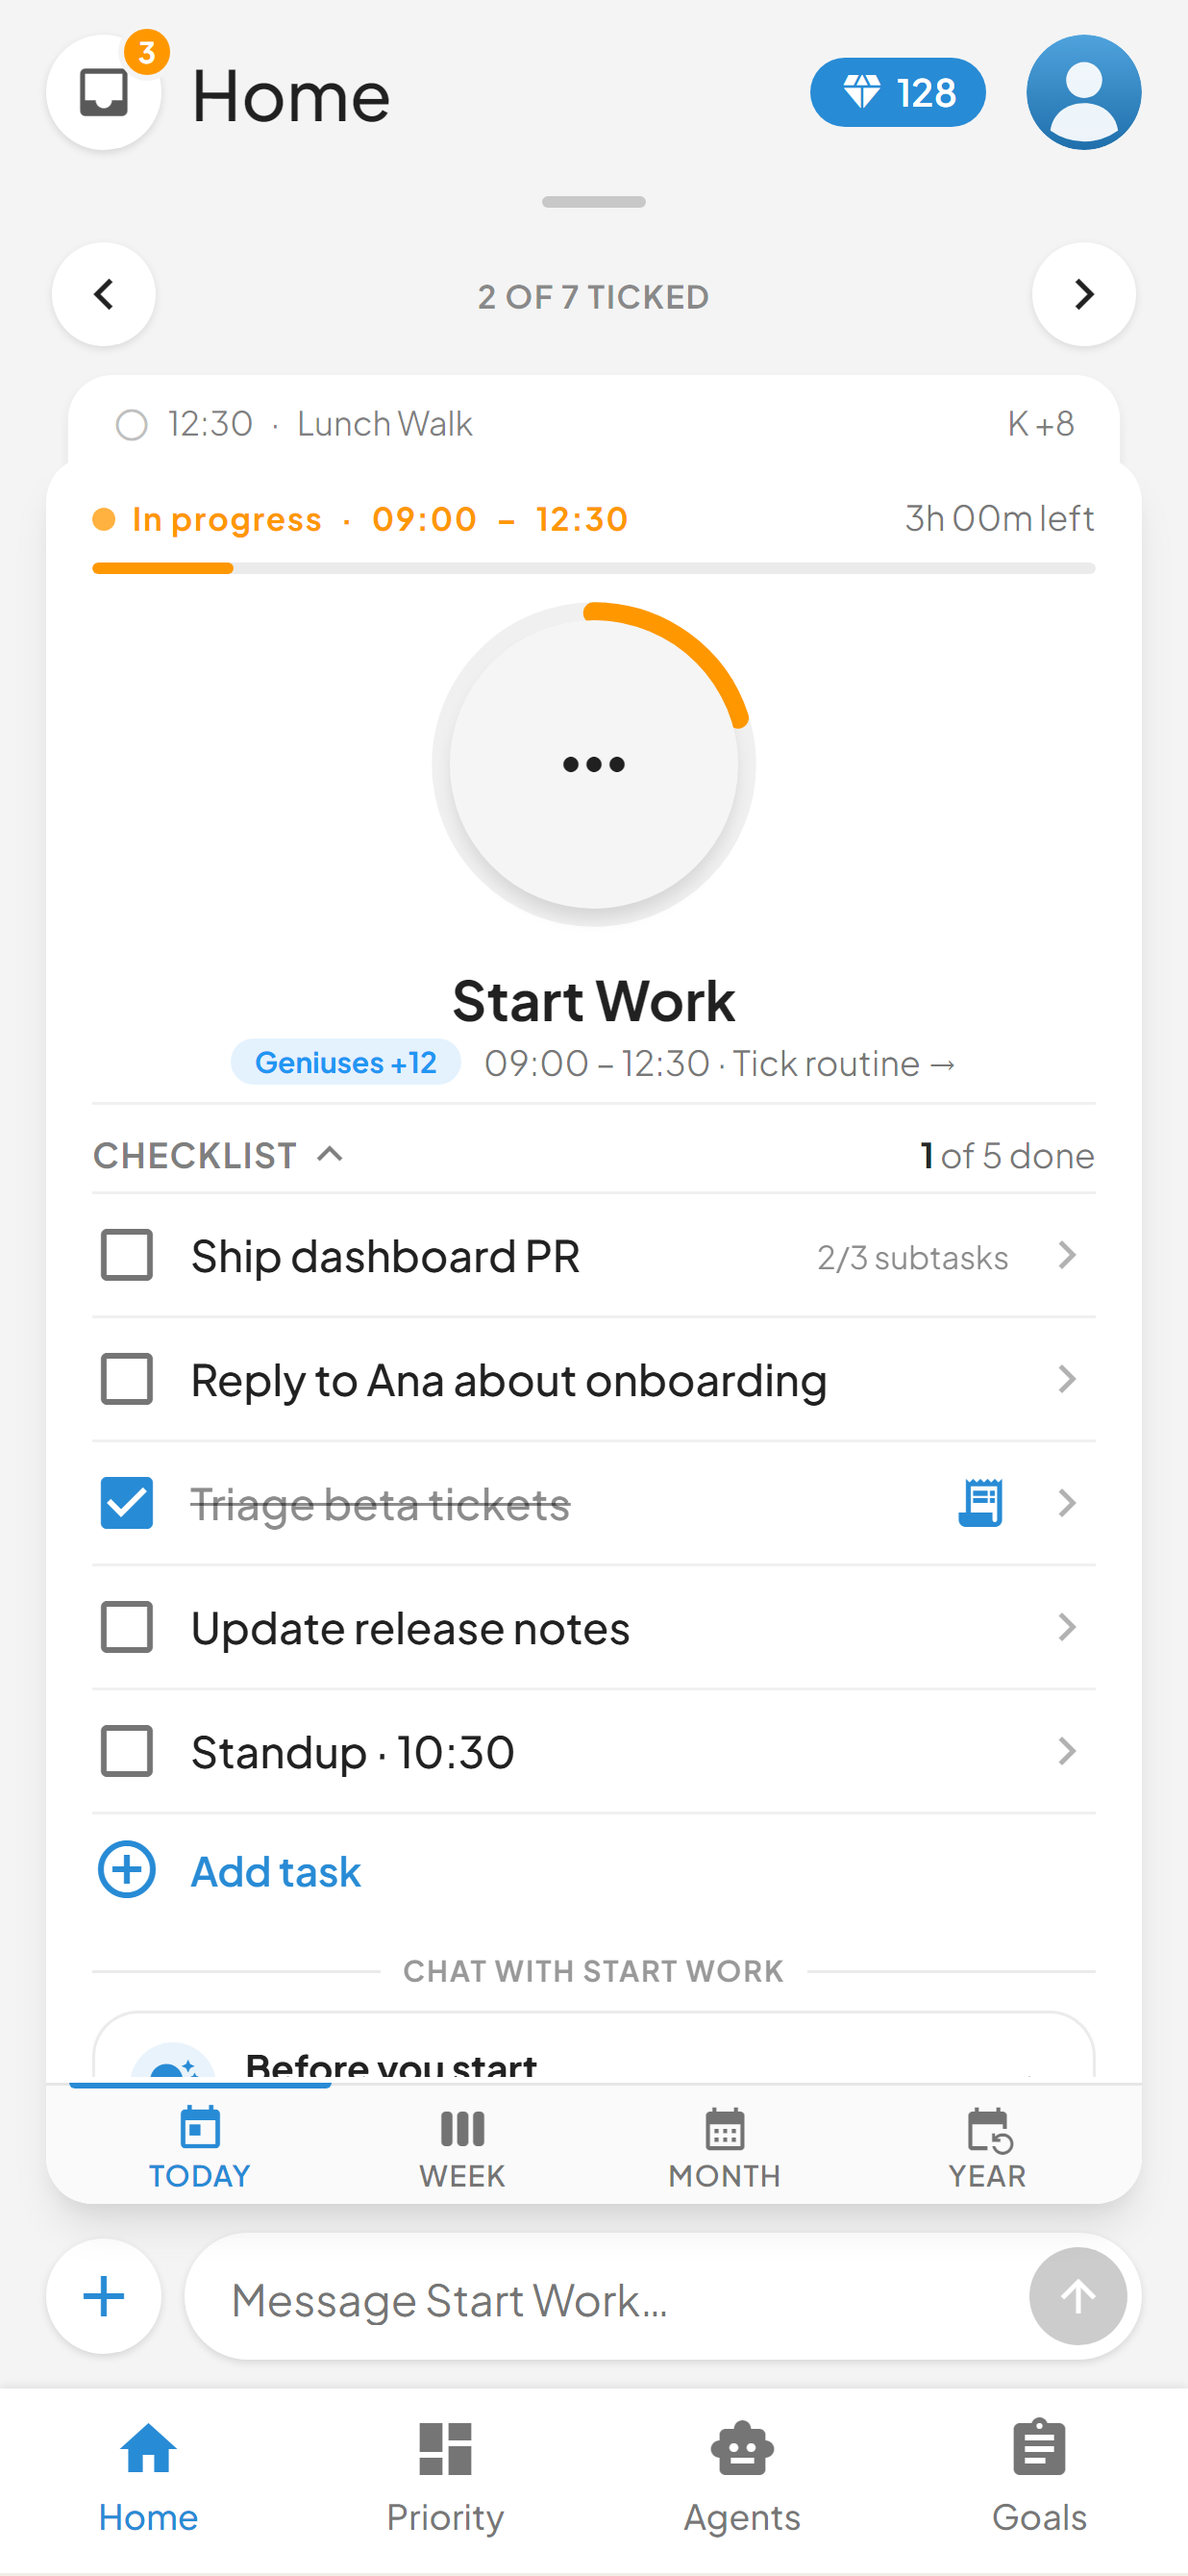
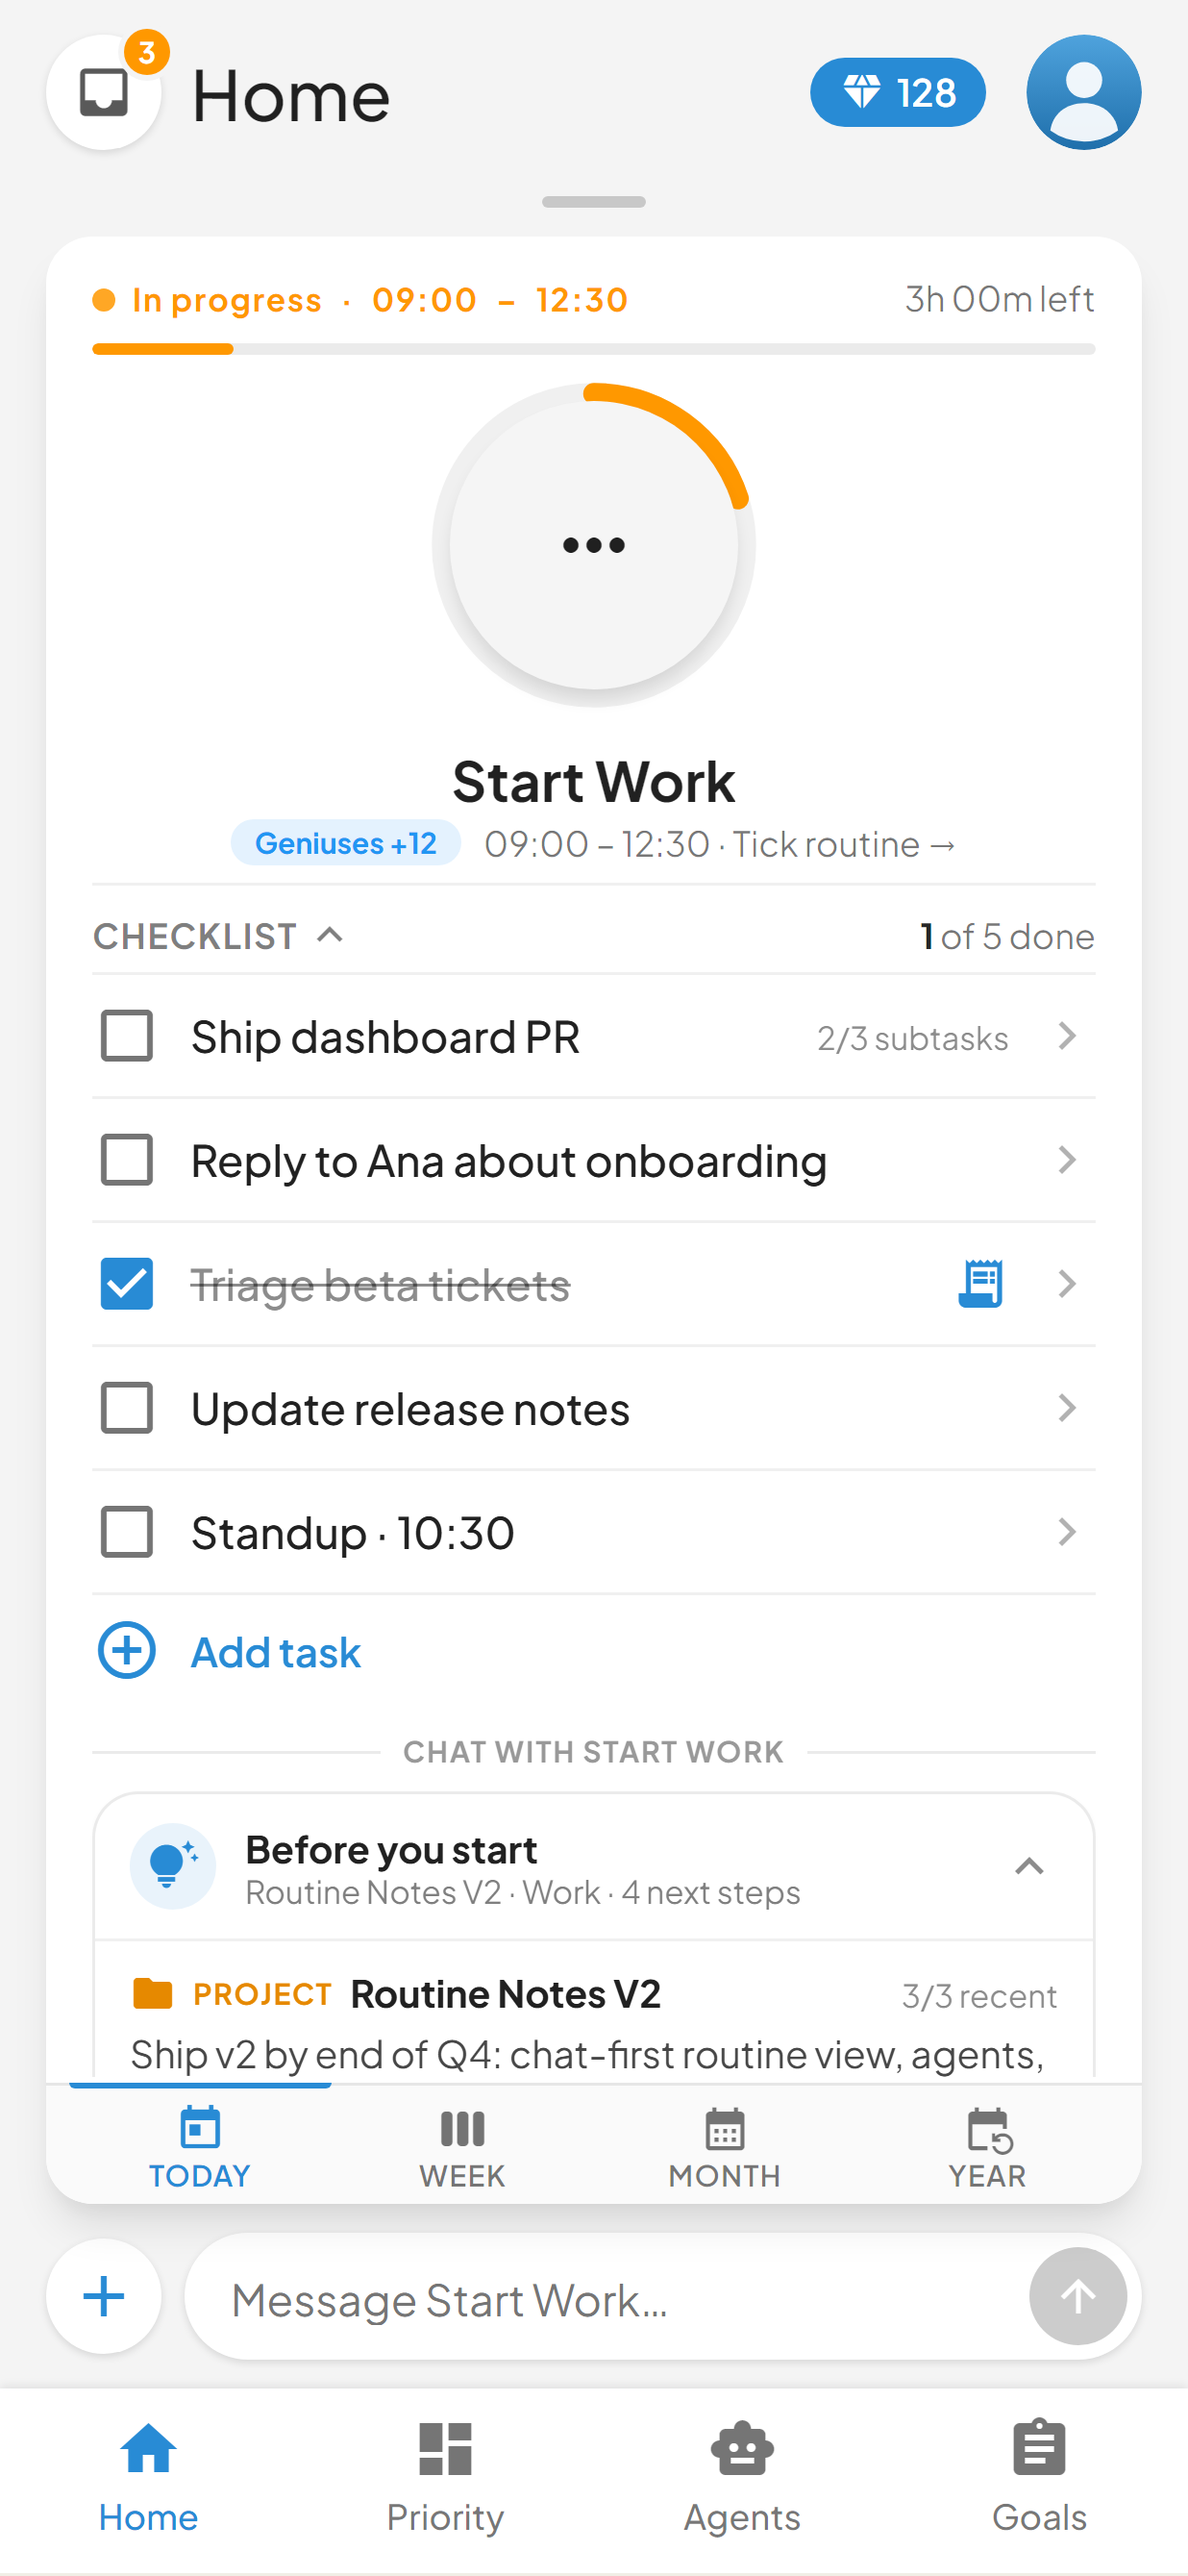
feat(design): drop the peek deck, and re-cut all 24 slides from it
`4ed0905` removed the Home deck's stacked peek cards from the app, along with
the "N OF M TICKED" header and the < > buttons, moving "Back to now" into the
focus card's status row. `packages/design` still drew all of it, so the slides
cut from the prototype advertised a layout the app no longer ships - the exact
drift the pipeline's standing caveat warns about.

The prototype now matches: the header row and the `sc-for deckNext` peek block
are gone, the 30px that made room for them with it, and "Back to now" sits beside
the time left in the card's status row, which is where the large shells already
had it. The dead `deckNext` binding is removed; `deckDoneCount` stays, because
the tablet and desktop rails still show their own "N of 7 ticked".

All 24 slides re-captured, re-composed and re-rasterised. verify-listing: 24
checks, 0 fail.

Also adds a one-drop slot for a real avatar. The prototypes render the neutral
`assets/avatar.svg` because the mocks used to load a Google-hosted photo of an
identifiable stranger, which is not publishable as marketing. Dropping a licensed
portrait at `packages/design/assets/avatar-demo.png` now makes the capture serve
it in place of the SVG - no design edits, and every slide picks it up on the next
run.

Claude-Session: https://claude.ai/code/session_01PbWEQqGVegm4LQ7KC1a1VF

diff --git a/packages/design/Routine Notes Final.dc.html b/packages/design/Routine Notes Final.dc.html
@@ -81,19 +81,11 @@ a{color:#288bd5}a:hover{color:#1f6fab}
     <div style="width:36px;height:4px;border-radius:2px;background:rgba(0,0,0,.18)"></div>
   </div>
   <div style="flex:1;overflow:hidden;display:flex;flex-direction:column;padding:8px 16px 64px;min-height:0">
-    <div style="display:flex;align-items:center;justify-content:space-between;padding:2px 2px 8px">
-      <div onClick="{{ goPrev }}" style="width:36px;height:36px;border-radius:50%;background:#fff;display:flex;align-items:center;justify-content:center;box-shadow:0 1px 3px rgba(0,0,0,.1);cursor:pointer;opacity:{{ hasPrevOpacity }}"><span class="mi" style="font-size:22px">chevron_left</span></div>
-      <div style="text-align:center"><div style="font-size:11px;font-weight:700;letter-spacing:.5px;color:rgba(0,0,0,.45)">{{ deckDoneCount }} OF 7 TICKED</div><sc-if value="{{ focusNotCur }}" hint-placeholder-val="{{ false }}"><div onClick="{{ backToNow }}" style="font-size:12px;font-weight:600;color:#FF9800;cursor:pointer;margin-top:2px">Back to now</div></sc-if></div>
-      <div onClick="{{ goNext }}" style="width:36px;height:36px;border-radius:50%;background:#fff;display:flex;align-items:center;justify-content:center;box-shadow:0 1px 3px rgba(0,0,0,.1);cursor:pointer;opacity:{{ hasNextOpacity }}"><span class="mi" style="font-size:22px">chevron_right</span></div>
-    </div>
-    <div style="position:relative;flex:1;min-height:0;margin-top:30px">
-      <sc-for list="{{ deckNext }}" as="n" hint-placeholder-count="2">
-        <div onClick="{{ n.onFocus }}" style="position:absolute;left:0;right:0;top:0;height:120px;border-radius:16px;background:#fff;box-shadow:0 2px 4px rgba(0,0,0,.06);transform:translateY(-{{ n.top }}) scale({{ n.scale }});transform-origin:top center;z-index:{{ n.z }};cursor:pointer;display:flex;align-items:flex-start;justify-content:space-between;padding:10px 16px;font-size:12px;color:rgba(0,0,0,.5)"><span style="display:flex;align-items:center;gap:6px"><span class="mi" style="font-size:14px;color:{{ n.agentDotColor }}">{{ n.agentIcon }}</span>{{ n.time }} · {{ n.name }}</span><span>{{ n.stim }} +{{ n.pts }}</span></div>
-      </sc-for>
+    <div style="position:relative;flex:1;min-height:0">
       <div style="position:relative;z-index:5;background:#fff;border-radius:16px;box-shadow:0 10px 15px -3px rgba(0,0,0,.1),0 4px 6px -2px rgba(0,0,0,.05);padding:14px 16px 16px;height:100%;box-sizing:border-box;display:flex;flex-direction:column;overflow:hidden">
         <div style="display:flex;align-items:center;justify-content:space-between;margin-bottom:8px;gap:8px">
           <div style="display:flex;align-items:center;gap:6px;font-size:11px;font-weight:700;letter-spacing:.6px;color:{{ focusStatusColor }};white-space:nowrap"><div style="width:8px;height:8px;border-radius:50%;background:{{ focusStatusColor }};animation:rn-pulse 1.4s ease-in-out infinite"></div>{{ focusStatus }} · {{ focus.time }} – {{ focusEnd }}</div>
-          <div style="font-size:12px;color:rgba(0,0,0,.54);white-space:nowrap">{{ focusLeft }}</div>
+          <div style="display:flex;align-items:center;gap:8px;white-space:nowrap"><sc-if value="{{ focusNotCur }}" hint-placeholder-val="{{ false }}"><span onClick="{{ backToNow }}" style="font-size:12px;font-weight:600;color:#FF9800;cursor:pointer">Back to now</span></sc-if><span style="font-size:12px;color:rgba(0,0,0,.54)">{{ focusLeft }}</span></div>
         </div>
         <div style="height:4px;border-radius:2px;background:rgba(0,0,0,.08);overflow:hidden"><div style="height:100%;width:{{ focusElapsedPct }}%;background:{{ focusStatusColor }};border-radius:2px"></div></div>
         <div style="display:flex;flex-direction:column;align-items:center;padding:6px 0 2px">
@@ -1898,7 +1890,6 @@ class Component extends DCLogic {
       focusTickBorder: focus.past && !focus.ticked ? '1px solid #288bd5' : '1px solid transparent',
       focusOthers: rows.filter(r => r.id !== focusId).map(r => ({ ...r, bg: r.isCur ? 'rgba(255,152,0,.12)' : '#f5f5f5', fg: r.past ? 'rgba(0,0,0,.4)' : 'rgba(0,0,0,.8)', onFocus: () => this.setState({ focusId: r.id }), stateIcon: r.ticked ? 'check_circle' : (r.isCur ? 'radio_button_checked' : (r.past ? 'diamond' : 'radio_button_unchecked')), stateColor: r.ticked ? '#4CAF50' : (r.isCur ? '#FF9800' : 'rgba(0,0,0,.3)') })),
       rail: rows.map(r => { const f = r.id === focusId; return { ...r, isFocus: f, notFocus: !f, dotBg: r.ticked ? '#4CAF50' : (r.isCur ? '#FF9800' : (r.past ? '#fff' : '#e0e0e0')), dotBorder: r.past && !r.ticked ? '2px solid #288bd5' : '2px solid transparent', lineBg: r.past || r.isCur ? '#4CAF50' : 'rgba(0,0,0,.1)', onFocus: () => this.setState({ focusId: r.id }), lineFg: r.past ? 'rgba(0,0,0,.4)' : 'rgba(0,0,0,.8)' }; }),
-      deckNext: rows.slice(fi + 1, fi + 3).map((r, i) => ({ ...r, agentIcon: r.id === 'sw' && s.agentAssigned ? 'smart_toy' : 'radio_button_unchecked', agentDotColor: r.id === 'sw' && s.agentAssigned ? '#1976d2' : 'rgba(0,0,0,.25)', top: 28 - i * 14 + 'px', scale: 1 - (i + 1) * 0.04, z: 2 - i, onFocus: () => this.setState({ focusId: r.id }) })),
       deckNextFirst: nextR ? { name: nextR.name, time: nextR.time } : { name: 'Day complete', time: '' },
       hasPrevOpacity: fi > 0 ? 1 : 0.35, hasNextOpacity: nextR ? 1 : 0.35,
       hasDeckNext: !!nextR, deckDoneCount: rows.filter(r => r.ticked).length, deckPrev: fi > 0 ? rows[fi - 1] : null, hasPrev: fi > 0,

diff --git a/store-assets/tools/make-review-page.js b/store-assets/tools/make-review-page.js
@@ -8,29 +8,29 @@ const groups = JSON.parse(fs.readFileSync(path.join(root, 'build', 'review-cards
 
 const DECISIONS = [
   {
-    k: 'Source',
-    t: 'These are cut from packages/design, not from the running app',
-    d: 'The previous 24 slides showed <code>DashBoard.vue</code> &mdash; the page this branch deletes. Rather than stand up a server, an account and seeded data to re-capture, the slides now come from the design prototypes, which carry the demo data and render identically every run. <b>The one thing to keep checking:</b> Apple 2.3.3 and Play&rsquo;s metadata policy both require screenshots to show the real in-app experience. The redesign shipped, so they agree today &mdash; but a UI change that lands in <code>apps/web-app</code> without landing in <code>packages/design</code> quietly makes this listing wrong.',
-  },
-  {
-    k: 'iPad',
-    t: 'The tablet set is landscape now',
-    d: 'The design has no portrait tablet layout &mdash; only iPad mini landscape &mdash; so the canvas moved to <b>2732&times;2048</b>. The App Store takes a 13&Prime; set in either orientation as long as every slide in the set agrees, and all six do. The same six double as Play&rsquo;s 10&Prime; tablet set, which is what earns the tablet-optimised badge.',
+    k: 'Deck',
+    t: 'The stacked peek cards are gone, in the design too',
+    d: 'The app dropped them in <code>4ed0905</code> &mdash; along with the &ldquo;N OF M TICKED&rdquo; header and the &lsquo;&rsaquo; buttons, with &ldquo;Back to now&rdquo; moving into the focus card&rsquo;s status row. <code>packages/design</code> still drew all of it, so the previous slides advertised a layout the app no longer ships. The prototype now matches, and these 24 are re-cut from it.',
   },
   {
     k: 'Avatar',
-    t: 'Replaced &mdash; it was a photo of a real person',
-    d: 'Every design file loaded its avatar from a Google-hosted image of an identifiable stranger. That cannot appear in published marketing, so it is now <code>packages/design/assets/avatar.svg</code>, a neutral illustrated placeholder in the brand blue. Swap in a photo you own and re-run the three commands if you would rather have a face.',
+    t: 'Still the illustrated placeholder',
+    d: 'The mocks used to load a Google-hosted photo of an identifiable stranger, which cannot appear in published marketing. It is <code>packages/design/assets/avatar.svg</code> for now. <b>To use a real face:</b> drop a portrait you own, or one licensed for commercial use, at <code>packages/design/assets/avatar-demo.png</code> &mdash; the capture serves it in place of the SVG automatically, no design edits, and all 24 pick it up on the next run.',
   },
   {
-    k: 'Fixed',
-    t: 'Both previously flagged defects are gone',
-    d: 'The year-goal ladder no longer clips (that was a real responsive bug in the old page, not a capture artefact) and the routine builder has no label overlap. The &ldquo;Refine <em>you</em> Year Goals&rdquo; typo is fixed &mdash; the caption now reads &ldquo;Build and refine your year goals&rdquo;.',
+    k: 'Source',
+    t: 'Cut from packages/design, not from the running app',
+    d: 'The prototypes carry the demo data and render identically every run, with no backend or seeded database. <b>The standing check:</b> Apple 2.3.3 and Play&rsquo;s metadata policy both require screenshots to show the real in-app experience, so a UI change that lands in <code>apps/web-app</code> without landing in <code>packages/design</code> makes this listing wrong &mdash; which is exactly what the deck change just did. Re-pointing the capture at the real app would remove the risk permanently.',
+  },
+  {
+    k: 'iPad',
+    t: 'The tablet set is landscape',
+    d: 'The design has no portrait tablet layout &mdash; only iPad mini landscape &mdash; so the canvas is <b>2732&times;2048</b>. The App Store takes a 13&Prime; set in either orientation as long as every slide agrees, and all six do. The same six double as Play&rsquo;s 10&Prime; tablet set, which earns the tablet-optimised badge.',
   },
   {
     k: 'Copy',
     t: 'Listing text is written and length-checked',
-    d: '<code>fastlane/metadata</code> was empty. It now holds both trees, built from the app&rsquo;s own feature text in <code>packages/ui/constants/about.js</code> so the listing and the About page cannot describe different products. <code>node store-assets/tools/verify-listing.js</code> asserts every store cap &mdash; 21 checks, all passing.',
+    d: '<code>fastlane/metadata</code> holds both trees, built from the app&rsquo;s own feature text in <code>packages/ui/constants/about.js</code> so the listing and the About page cannot describe different products. <code>node store-assets/tools/verify-listing.js</code> asserts every store cap &mdash; 24 checks, all passing &mdash; and the release workflow now runs it before either upload.',
   },
   {
     k: 'Mac',

diff --git a/store-assets/tools/capture-design.js b/store-assets/tools/capture-design.js
@@ -43,11 +43,29 @@ const MIME = {
   '.css': 'text/css',
 };
 
+/**
+ * A real photographed avatar for the slides, if one has been provided.
+ *
+ * The design prototypes render `assets/avatar.svg`, a neutral illustrated
+ * placeholder, because the mocks previously loaded a Google-hosted photo of an
+ * identifiable stranger - fine in a prototype, not publishable as marketing.
+ *
+ * Drop a portrait you own or that carries a licence permitting commercial use
+ * (Unsplash, Pexels, or a photo of yourself) at the path below and every slide
+ * picks it up on the next capture. No design file changes: the request for the
+ * SVG is served this file instead. Absent, the SVG is served as normal, so the
+ * prototypes always render.
+ */
+const AVATAR_OVERRIDE = path.join(DESIGN, 'assets', 'avatar-demo.png');
+
 function serve(dir) {
   return new Promise((resolve) => {
     const server = http.createServer((req, res) => {
       const rel = decodeURIComponent(req.url.split('?')[0]).replace(/^\/+/, '');
-      const file = path.join(dir, rel);
+      let file = path.join(dir, rel);
+      if (rel === 'assets/avatar.svg' && fs.existsSync(AVATAR_OVERRIDE)) {
+        file = AVATAR_OVERRIDE;
+      }
       if (!file.startsWith(dir) || !fs.existsSync(file) || fs.statSync(file).isDirectory()) {
         res.writeHead(404); res.end('not found'); return;
       }
